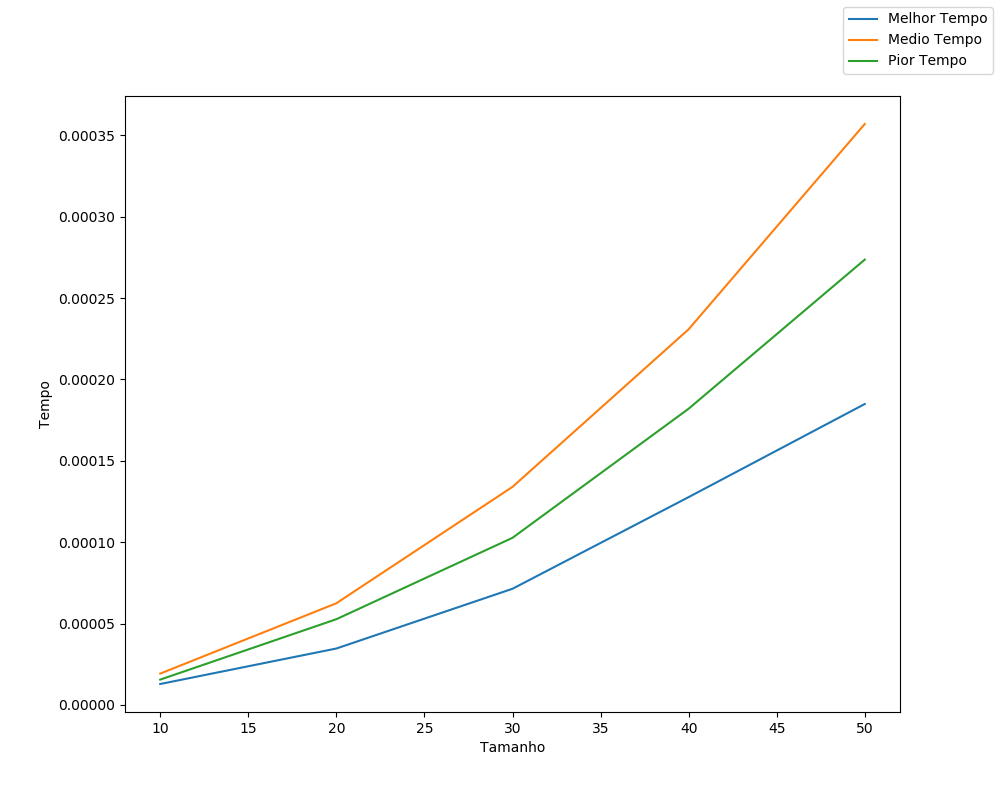
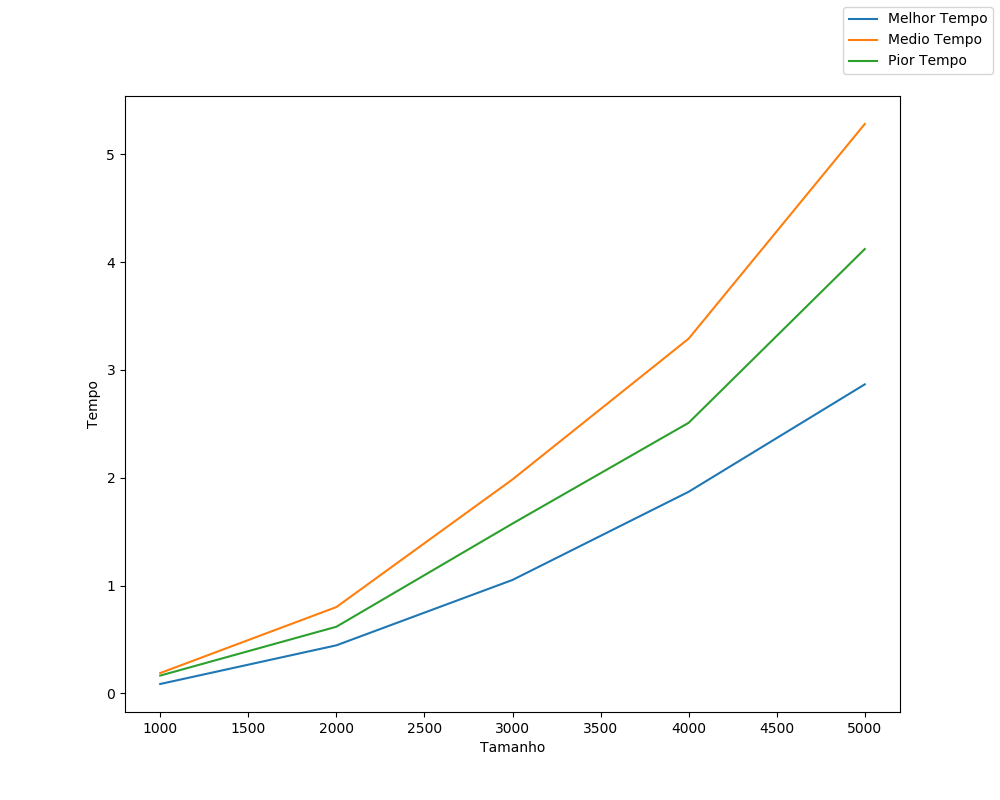
analise

diff --git a/analise-bubble/analise.py b/analise-bubble/analise.py
@@ -2,7 +2,7 @@ from random import randint
 import matplotlib as mpl
 import timeit
 
-tamlista = [10, 20, 30, 40, 50]
+tamlista = [1000, 2000, 3000, 4000, 5000]
 def geraLista(tam):
     lista = []
     while len(lista) < tam:
